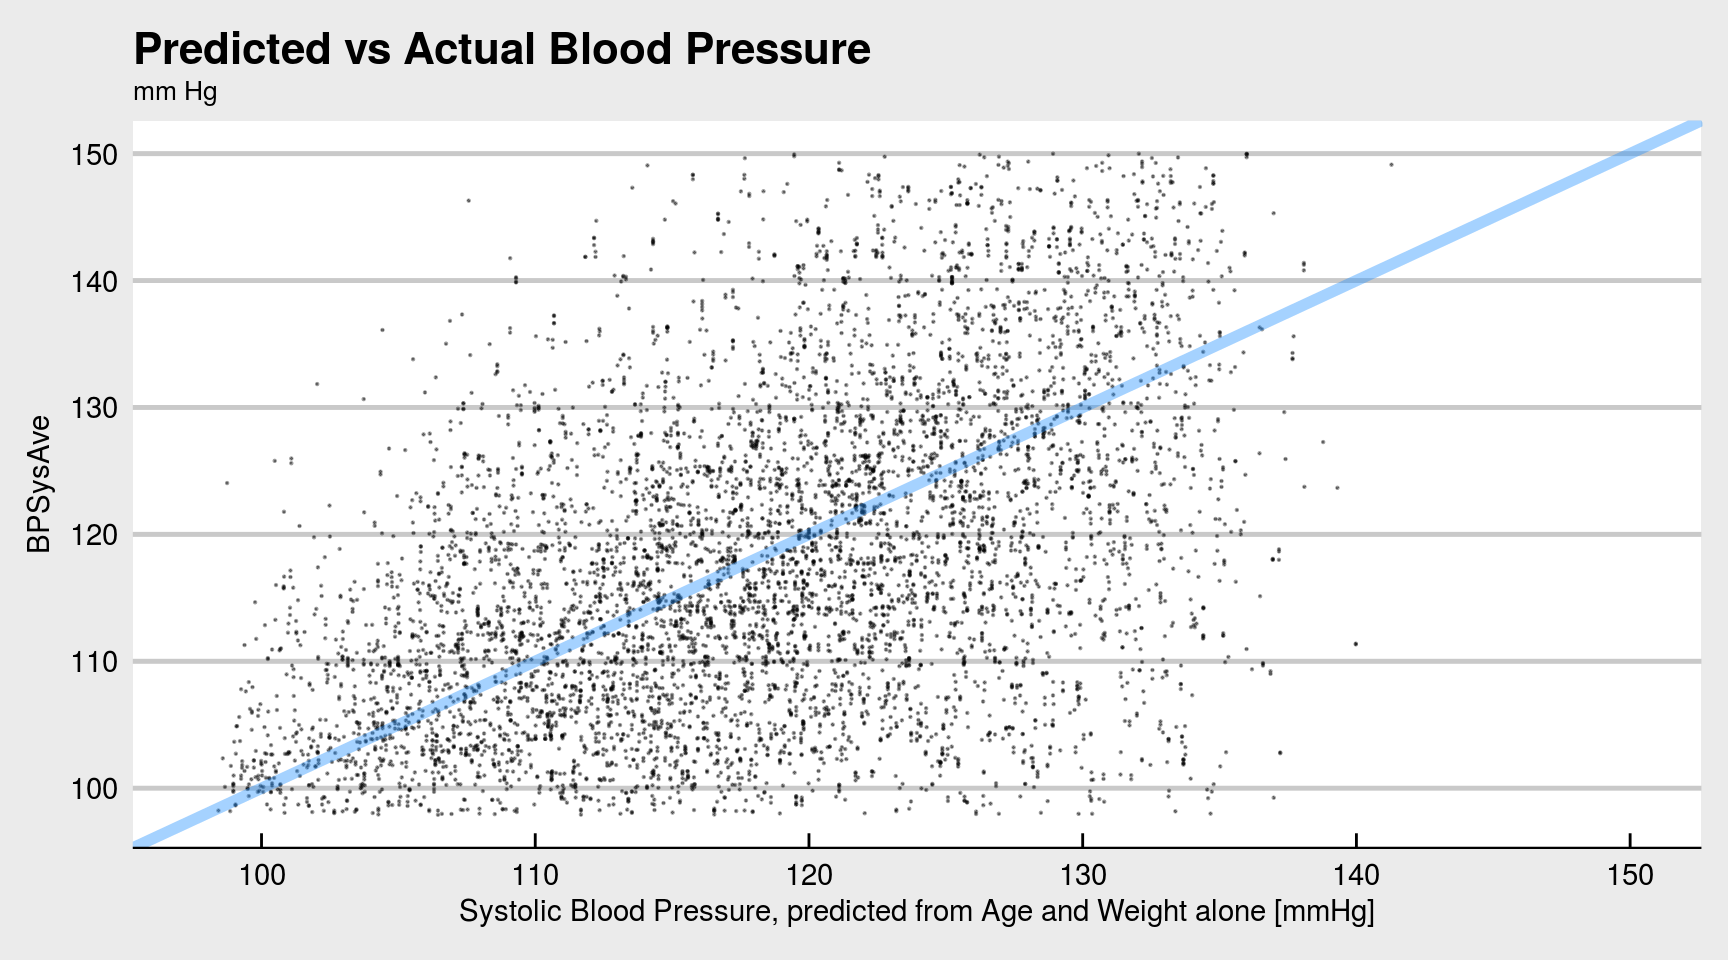
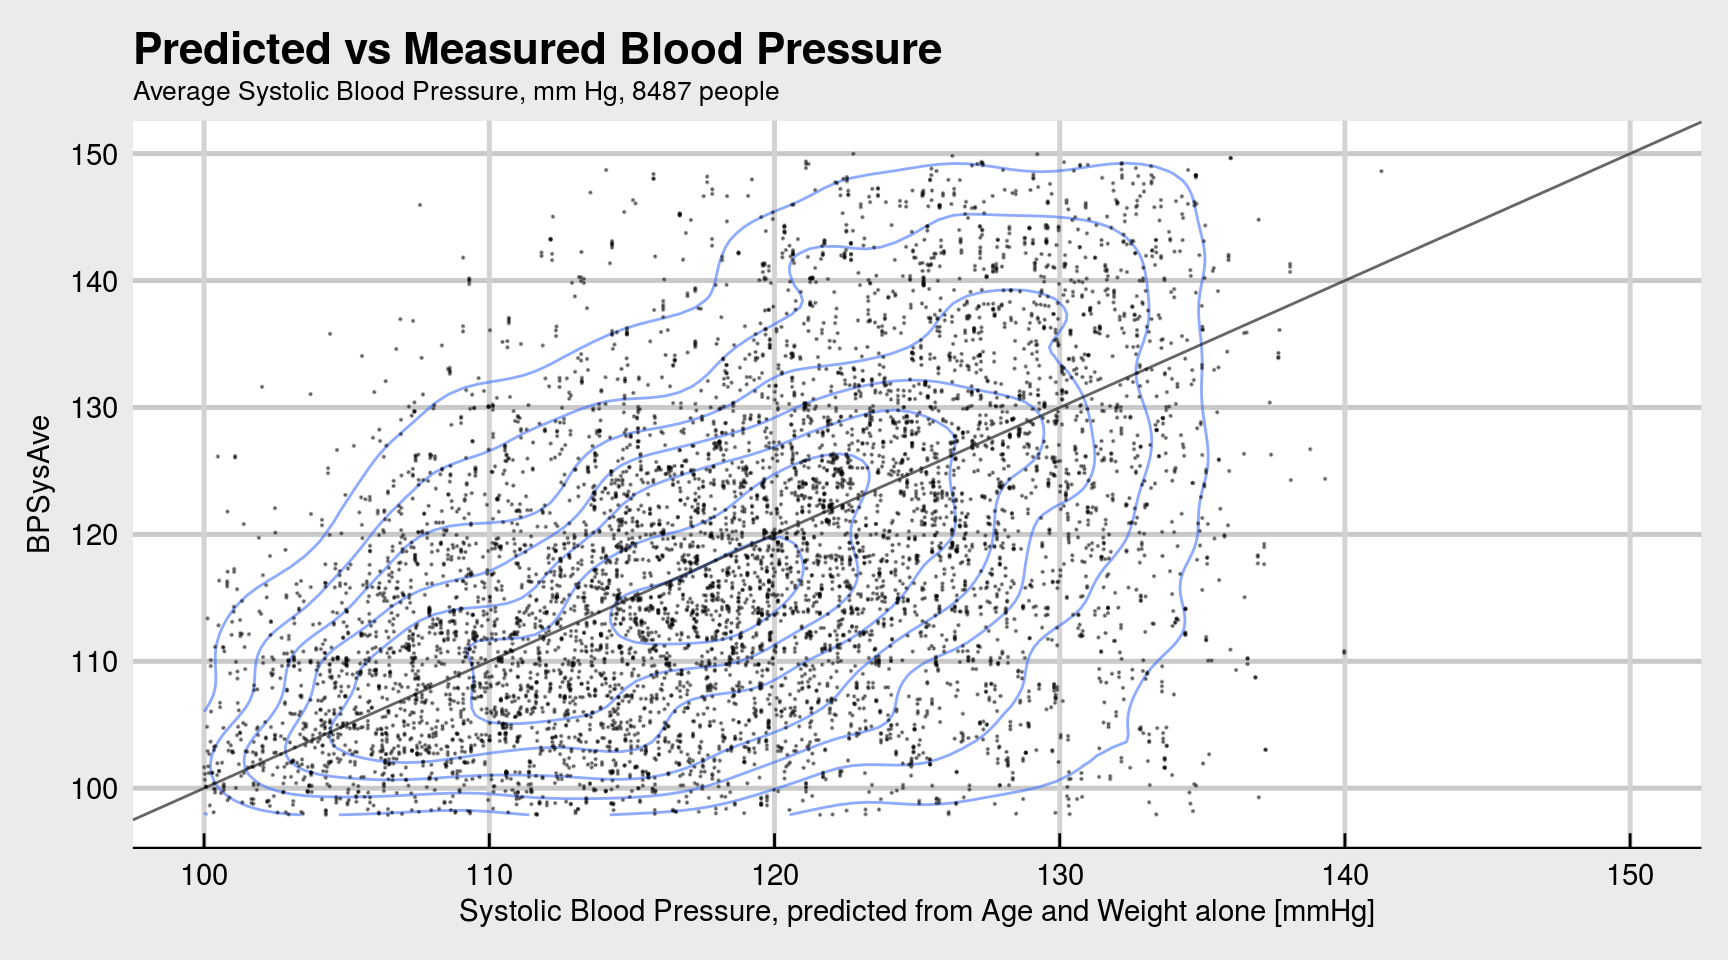
the typos never stop. Refine colors in some plots

diff --git a/content/post/2018-02-08-blood-pressure.html b/content/post/2018-02-08-blood-pressure.html
@@ -1,5 +1,5 @@
 ---
-title: Blood Pressure in the US population
+title: Blood Pressure in the US population, and me
 author: Knut Behrends
 date: '2018-02-08'
 slug: bloodpressure-nhanes
@@ -12,7 +12,7 @@ output:
     css: styles.css
     fig_caption: yes
     keep_md: no
-image: /static/img/football.png
+image: /static/img/bloodpr-Boxplots-1.png
 banner: img/post/thumb//bloodpr-Boxplots-1-150.png
 summary: 'Blood Pressure in Americans, two different datasets.'
 keywords:
@@ -28,19 +28,18 @@ keywords:
 
 <div id="blood-pressure-as-a-function-of-age-and-body-weight" class="section level4">
 <h4>Blood Pressure as a function of age and body weight</h4>
-<div class="alert alert-info"><b>Very basic analysis of two health datasets from ~ 2010, about the general US Population.</b>
-The data were gathered independently. One of them is a tiny teaching dataset, the other is a larger study. Both datasets show that systolic blood pressure rises about 5-10 mm Hg per decade of a person &apos;s life. </div>
-<p>Recently, conversations with friends and colleagues had me thinking about blood pressure. Then I’ve remembered that weekend project from late 2017. Back then I had analysed two datasets: one available on the internet, the other available as R package <a href="https://cran.r-project.org/web/packages/NHANES/index.html">NHANES on CRAN</a>.</p>
-<p>My motivation in writing this up was (1) learning more <em>ggplot</em> tricks, and more importantly, (2) gaining insights from a real data that interests me. It was also a helpful exercise to start with a small teaching dataset, then switch to a messier, larger dataset: a real medical study with data from 10000 people.</p>
+<div class="alert alert-info"><b>Basic analysis of two health datasets from ~ 2010, about the general US Population.</b>
+The datasets were gathered independently. One of them is a tiny teaching dataset, the other is a larger study. Both datasets show that systolic blood pressure rises about 5-10 mm Hg per decade of a person &apos;s life. </div>
+<p>Recently, conversations with friends and colleagues had me thinking about blood pressure. Then I’ve remembered that weekend project from late 2017. Back then I had analysed two datasets: one available <a href="http://college.cengage.com/mathematics/brase/understandable_statistics/7e/students/datasets/mlr/excel/mlr02.xls">on the internet</a>, the other available as R package <a href="https://cran.r-project.org/web/packages/NHANES/index.html">NHANES on CRAN</a>.</p>
+<p>My motivation for writing this up was (1) learning more tricks with visualization library <em>ggplot</em>, and more importantly, (2) gaining insights from a real study that interests me. It was also a helpful exercise to start with a small teaching dataset, then switch to a messier, larger dataset: a real medical study with data from 10000 people.</p>
 </div>
 <div id="preprocessing" class="section level4">
 <h4>Preprocessing</h4>
 <p>Load the necessary packages. Nothing fancy here.</p>
-<pre class="r"><code>library(readxl)
+<pre class="r"><code>library(readxl) # for mlr02.xls from http://college.cengage.com/  
 library(tidyverse)
-library(ggthemes)
-theme_set(theme_economist_white())
-scale_colour_discrete &lt;- function(...) scale_color_brewer(palette=&quot;Set1&quot;)</code></pre>
+library(NHANES) # Body Shape + related measurements from 10000 US citizens
+data(NHANES)</code></pre>
 <p>Download <strong>dataset 1</strong>: A tiny 11*4 table called <code>Systolic Blood Pressure</code>. It comes from <a href="http://college.cengage.com/mathematics/brase/understandable_statistics/7e/students/datasets/mlr/frames/frame.html">a book publisher’s website</a>. Maybe it is a teaching dataset; perhaps is is supplementary material for a college textbook.</p>
 <p>The <a href="https://github.com/knbknb/kbehrends.netlify.com/tree/master/content">markdown version of this blog post</a> contains the necessary instructions on how to download and import the data.</p>
 </div>
@@ -61,7 +60,7 @@ scale_colour_discrete &lt;- function(...) scale_color_brewer(palette=&quot;Set1&
 Figure 1:  Predicted values are shown in red, observed values in black.
 </p>
 </div>
-<p>The linear regression model shows a moderately strong correlation with age and weight. For a single-parameter model, (age as sole predictive variable), the predicted values would fall on the blue line. Inclusion of body weight as a second predicitive variable seems to improve the fitted values slightly, as the red dots show.</p>
+<p>The linear regression model shows a strong correlation of blood pressure with age and weight. For a single-parameter model, (age as sole predictive variable), the predicted values would fall on the blue line. Inclusion of body weight as a second predicitive variable seems to improve the fitted values slightly, as the red dots show.</p>
 <p>Also, for 45-year olds the average blood pressure is already well over 120. Some doctors consider this unhealthy.</p>
 <p>For the R specialists, this is the summary of the regression model:</p>
 <pre><code>## 
@@ -89,9 +88,7 @@ Figure 1:  Predicted values are shown in red, observed values in black.
 <div id="nhanes-dataset" class="section level4">
 <h4>NHANES dataset</h4>
 <p>The <em>NHANES</em> dataset is available as an R package on <a href="https://cran.r-project.org/package=NHANES">CRAN</a>. It contains data from the US National Health and Nutrition Examination Study. I have used package version 2.1.0, specifically “NHANES 2009-2012 with adjusted weighting”. This dataset contains some corrections for undersampling racial minorities. Uncorrected data is also available, in the <em>NHANESraw</em> package.</p>
-<pre class="r"><code>library(NHANES) # Body Shape + related measurements from 10000 US citizens
-data(NHANES)</code></pre>
-<p>The dataset is big, very big. It contains 10000 rows and 76 columns. Listing all column definitions here would waste too much screen space. I’ll concentrate on the relevant columns here.</p>
+<p>The dataset is big, very big. It contains 10000 rows (People) and 76 columns (features). Listing all column definitions here would waste too much screen space. I’ll concentrate on the relevant columns:</p>
 <p>Column names containing “Age”:</p>
 <pre><code>## [1] &quot;Age&quot;           &quot;AgeDecade&quot;     &quot;AgeMonths&quot;     &quot;DiabetesAge&quot;  
 ## [5] &quot;Age1stBaby&quot;    &quot;SmokeAge&quot;      &quot;AgeFirstMarij&quot; &quot;AgeRegMarij&quot;  
@@ -113,7 +110,7 @@ data(NHANES)</code></pre>
     filter(!is.na(BPSysAve), !is.na(Weight), !is.na(BMI))</code></pre>
 <p>The NAs are gone.</p>
 <p>We include <em>Gender</em> and <em>BMI</em> (Body Mass Index) for later.</p>
-<p>The dataset contains 8487 rows (People) and 5 columns.</p>
+<p>The reduced dataset contains 8487 rows (People) and 5 columns.</p>
 <p>Summary of Blood Pressure Data:</p>
 <pre><code>##     BPSysAve        Age           Weight         Gender          BMI      
 ##  Min.   : 76   Min.   : 8.0   Min.   : 17.1   female:4270   Min.   :12.9  
@@ -126,8 +123,8 @@ data(NHANES)</code></pre>
 </div>
 <div id="blood-pressure-by-gender" class="section level4">
 <h4>Blood Pressure by Gender:</h4>
-<div class="figure"><span id="fig:plot1"></span>
-<img src="/post/2018-02-08-blood-pressure_files/figure-html/plot1-1.png" alt="Blood Pressure by Gender, NHANES Dataset." width="864" />
+<div class="figure"><span id="fig:plot2"></span>
+<img src="/post/2018-02-08-blood-pressure_files/figure-html/plot2-1.png" alt="Blood Pressure by Gender, NHANES Dataset." width="864" />
 <p class="caption">
 Figure 2: Blood Pressure by Gender, NHANES Dataset.
 </p>
@@ -137,20 +134,20 @@ Figure 2: Blood Pressure by Gender, NHANES Dataset.
 <div id="blood-pressure-by-age-group" class="section level4">
 <h4>Blood Pressure by Age Group</h4>
 <p>After splitting the dataset by life decade, we get this:</p>
-<div class="figure"><span id="fig:plot4"></span>
-<img src="/post/2018-02-08-blood-pressure_files/figure-html/plot4-1.png" alt="Blood Pressure by Age Group." width="864" />
+<div class="figure"><span id="fig:plot3"></span>
+<img src="/post/2018-02-08-blood-pressure_files/figure-html/plot3-1.png" alt="Blood Pressure by Age Group." width="864" />
 <p class="caption">
 Figure 3: Blood Pressure by Age Group.
 </p>
 </div>
-<p>For kids below 10 years of age, Blood Pressures (BP) of boys and girls are equal. BP values are about 100 mm Hg for most both genders. Blood Pressures of teenage boys and 20-30 year-old men are already higher their female “counterparts”.</p>
-<div class="alert alert-warning"><b></b>Middle-aged men generally have higher blood pressures than women of the same age. This remains so until late middle age, when blood pressures of women seem to catch up. The 60-70 year old women have blood pressures just as high as the men; maybe because men with cardiovalscular problems have already died away?</div>
-<p>Blood Pressures generally increase, but is this rate really 9 mm/year, as indicated above?</p>
+<p>For kids below 10 years of age, Blood Pressures (BP) of boys and girls are equal. BP values are about 100 mm Hg for most both genders. Blood Pressures of teenage boys and 20-30 year-old men are already higher their female “counterparts”. (Originally I made the above plot with BMI data instead of BP. This was also very informative, especially the “young people”&quot; agegroups, but I’ll focus on BP here.)</p>
+<div class="alert alert-warning"><b></b>Middle-aged men generally have higher blood pressures than women of the same age. This remains so until late middle age, when blood pressures of women seem to catch up. The 60-70 year old women have blood pressures just as high as the men; maybe because men with cardiovascular problems have already died away?</div>
+<p>Blood Pressures generally increase over the years, but is this rate <em>really</em> 9 mm/year, as indicated above in Fig.1?</p>
 </div>
 <div id="linear-modeling" class="section level4">
 <h4>Linear modeling</h4>
 <p>Fit a linear regression model (Blood Pressure as a function of Age and Body Weight) to the entire <code>bloodpressure2</code> subset, just as above for the tiny dataset.</p>
-<div class="alert alert-warning">So the rate is more like <b>0.405 mm Hg/year.</b> Half as much as for the toy dataset. For data from an equivalent control group (men only, same age) the rate is a bit higher than 0.405 mmHg/yr. (See last figure below)</div>
+<div class="alert alert-warning">So the rate is more like <b>0.405 mm Hg/year.</b> Half as much as for the toy dataset. For data from an equivalent group (men only, same weight) the rate is ~6 mmHg/decade, a bit higher than 4.1 mmHg/decade. (See last figure below)</div>
 <p>For the R experts:</p>
 <pre><code>## 
 ## Call:
@@ -173,12 +170,12 @@ Figure 3: Blood Pressure by Age Group.
 ## F-statistic: 1.7e+03 on 2 and 8484 DF,  p-value: &lt;2e-16</code></pre>
 <p>The significance of Age and Body Weight is very high, but the general correlation is weak ( R² = 0.286). This can also be seen in the following plots.</p>
 <div class="figure"><span id="fig:actvspred"></span>
-<img src="/post/2018-02-08-blood-pressure_files/figure-html/actvspred-1.png" alt="Predicted vs Actual Blood Pressure." width="864" />
+<img src="/post/2018-02-08-blood-pressure_files/figure-html/actvspred-1.png" alt="Predicted vs Measured Blood Pressure." width="864" />
 <p class="caption">
-Figure 4: Predicted vs Actual Blood Pressure.
+Figure 4: Predicted vs Measured Blood Pressure.
 </p>
 </div>
-<p>Light blue line is the 1:1 line.</p>
+<p>The back diagonal line is the 1:1 line. Blue isolines indicate statistical density.</p>
 <p>Predicted values of the full model fall short of capturing the variability in the data. Maybe other factors have to be taken into into account (but not in this blogpost).</p>
 <div class="figure"><span id="fig:agepl"></span>
 <img src="/post/2018-02-08-blood-pressure_files/figure-html/agepl-1.png" alt="Blood Pressure as a function of Age and Weight.  Predicted values are shown in red, observed values in black. Blue line is BP predicted a function of Age alone." width="864" />
@@ -197,7 +194,7 @@ Figure 6: Blood Pressure by Age group. Orange Symbols are sample means.
 </p>
 </div>
 <p>Note that this plot is essentially the same as Figure 3, only the density plots are rotated 90 degrees.</p>
-<p>Comparing this with Figure 1, the toy dataset, I think the violin plot above shows that it is the Blood Pressures from the <em>female subgroup</em> that increase linearly with age. Blood Pressure of men has already increased earlier, in their twenties. Men generally have “unhealthier” values also for body weight, annd do so at earlier ages (BMI distributions by age group not shown).</p>
+<p>Comparing this with Figure 1, the toy dataset, I think the violin plot above shows that it is the Blood Pressures from the <em>female subgroup</em> that increase linearly with age. Blood Pressure of men has already increased earlier, in their twenties. Men generally have “unhealthier” values also for body weight, and do so at earlier ages (again: informative BMI distributions by age group not shown).</p>
 </div>
 <div id="comparing-myself-with-men-of-similar-age-weight-and-bmi" class="section level4">
 <h4>Comparing myself with men of similar age, weight and BMI</h4>
@@ -225,7 +222,7 @@ Figure 7: Blood pressure as a function of age and body weight. NHANES data filte
 </p>
 </div>
 <p>The solid blue line shows the predictions by age alone. The slope is 0.585 mmHg/yr, much lower than the slope in Figure 1 which was 0.861. The equivalent regression line from Figure 1 is shown as a dashed blue line.</p>
-<p>The green dot shows my personal Age/BP data at the time of writing .</p>
+<p>The green dot shows my personal Age/BP data, measured 2014-2017 by my doctor, as far I remember it.</p>
 <pre><code>## 
 ## Call:
 ## lm(formula = BPSysAve ~ Age + Weight, data = bloodpressure3)
